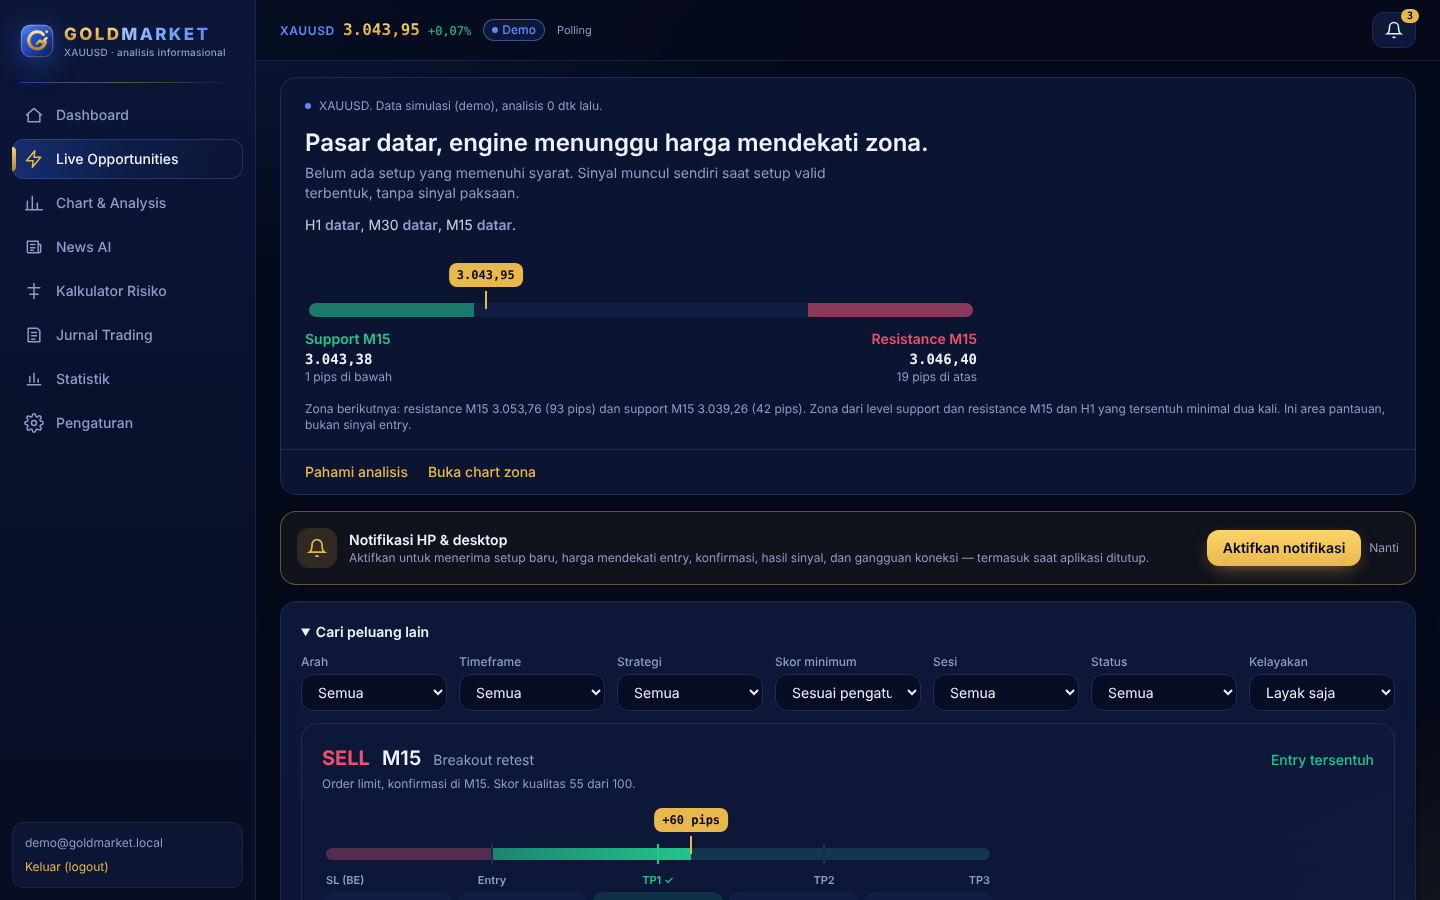
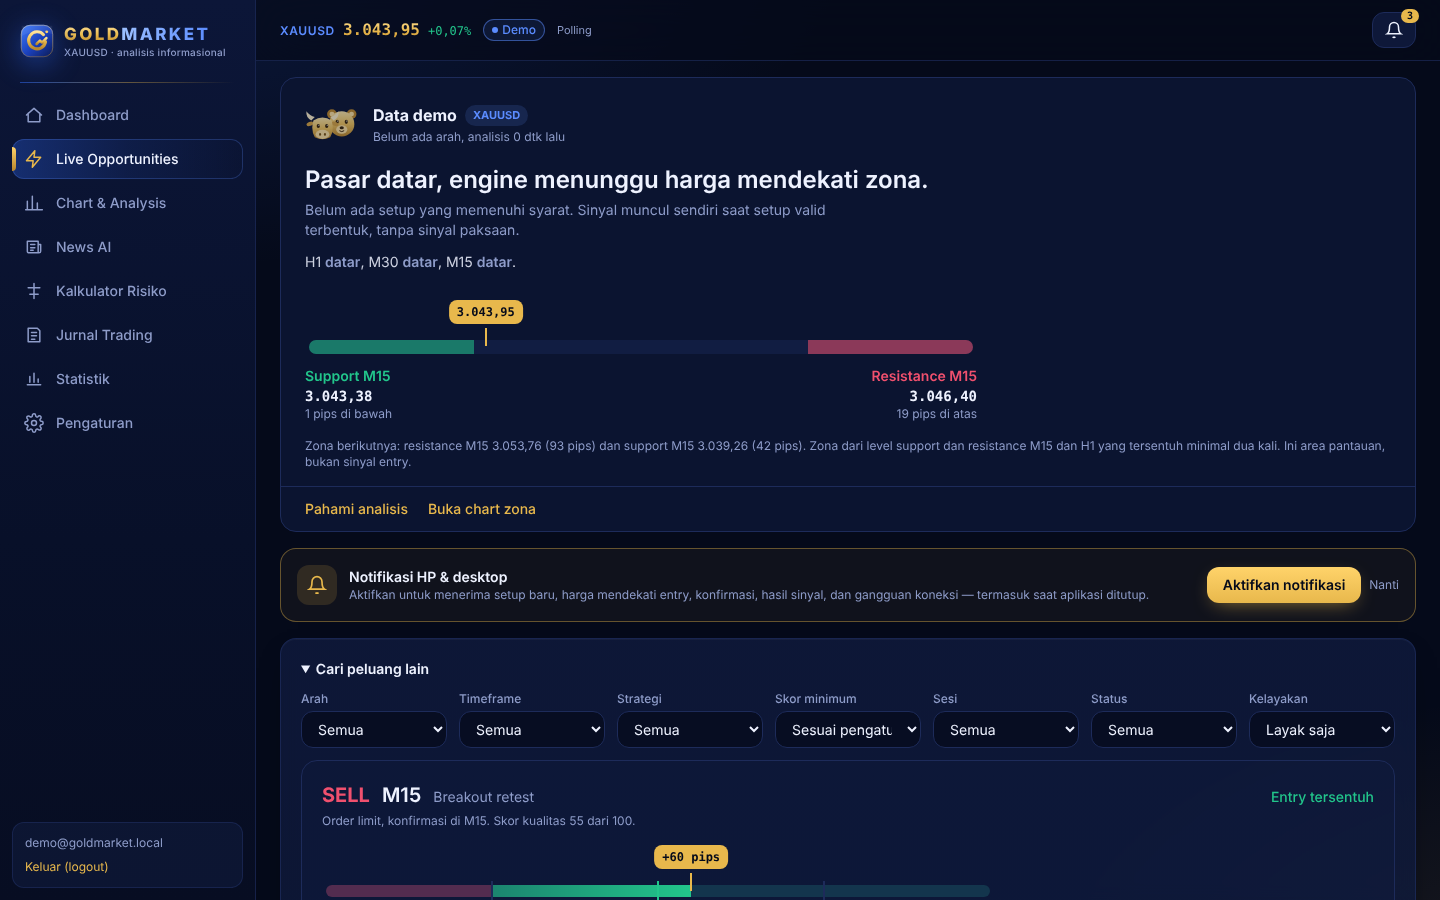
Add a bull/bear mascot as the live status mark on Opportunities
The mascot follows the engine's bias (bull for BUY, bear for SELL, both
when neutral), nods and blinks only while the feed is live, stays still
and dimmed for demo/delayed/stale data, and sleeps during quiet hours or
when the market is closed. Drops the unused wifi/radar keyframes.

Claude-Session: https://claude.ai/code/session_013QtfmBmTs5QPLgXJSgfiZY

Changed region(s): [[0.1875, 0.0933, 1.0, 1.0]]

diff --git a/src/components/Mascot.tsx b/src/components/Mascot.tsx
@@ -1,0 +1,101 @@
+"use client";
+
+import { useId } from "react";
+import { cx } from "./ui";
+
+export type MascotKind = "bull" | "bear" | "both";
+/** live = bergerak (data live); still = diam & redup (demo/delayed/terganggu); sleep = tidur (jam istirahat / pasar tutup) */
+export type MascotMood = "live" | "still" | "sleep";
+
+function Eyes({ y, lx, rx, sleep }: { y: number; lx: number; rx: number; sleep: boolean }) {
+  if (sleep)
+    return (
+      <g fill="none" stroke="#3b2606" strokeWidth="1.6" strokeLinecap="round">
+        <path d={`M${lx - 2.4} ${y} Q${lx} ${y + 2} ${lx + 2.4} ${y}`} />
+        <path d={`M${rx - 2.4} ${y} Q${rx} ${y + 2} ${rx + 2.4} ${y}`} />
+      </g>
+    );
+  return (
+    <>
+      <ellipse className="m-eye" cx={lx} cy={y} rx="2.3" ry="3" fill="#3b2606" />
+      <ellipse className="m-eye" cx={rx} cy={y} rx="2.3" ry="3" fill="#3b2606" />
+      <circle cx={lx + 0.8} cy={y - 1} r=".8" fill="#fff" />
+      <circle cx={rx + 0.8} cy={y - 1} r=".8" fill="#fff" />
+    </>
+  );
+}
+
+function Bull({ gold, sleep }: { gold: string; sleep: boolean }) {
+  return (
+    <g className="m-nod">
+      <path d="M14 22 Q6 18 7 9 Q12 16 19 17 Z" fill="#fff1c9" />
+      <path d="M46 22 Q54 18 53 9 Q48 16 41 17 Z" fill="#fff1c9" />
+      <ellipse cx="12" cy="27" rx="5" ry="3" fill="#d9a441" transform="rotate(-20 12 27)" />
+      <ellipse cx="48" cy="27" rx="5" ry="3" fill="#d9a441" transform="rotate(20 48 27)" />
+      <path d="M17 22 Q30 14 43 22 Q47 36 41 46 Q30 52 19 46 Q13 36 17 22 Z" fill={`url(#${gold})`} />
+      <ellipse cx="30" cy="42" rx="10" ry="6.5" fill="#ffe3a0" />
+      <ellipse cx="26.5" cy="42" rx="1.5" ry="2" fill="#7a5410" />
+      <ellipse cx="33.5" cy="42" rx="1.5" ry="2" fill="#7a5410" />
+      <Eyes y={30} lx={24} rx={36} sleep={sleep} />
+    </g>
+  );
+}
+
+function Bear({ gold, sleep }: { gold: string; sleep: boolean }) {
+  return (
+    <g className="m-nod">
+      <circle cx="16" cy="18" r="7" fill="#c08a2a" />
+      <circle cx="44" cy="18" r="7" fill="#c08a2a" />
+      <circle cx="16" cy="18" r="3.5" fill="#ffe3a0" />
+      <circle cx="44" cy="18" r="3.5" fill="#ffe3a0" />
+      <circle cx="30" cy="32" r="18" fill={`url(#${gold})`} />
+      <ellipse cx="30" cy="40" rx="8" ry="6" fill="#ffe3a0" />
+      <ellipse cx="30" cy="37.5" rx="3" ry="2.2" fill="#3b2606" />
+      <path d="M27 42 Q30 44.5 33 42" fill="none" stroke="#3b2606" strokeWidth="1.4" strokeLinecap="round" />
+      <Eyes y={29} lx={23.5} rx={36.5} sleep={sleep} />
+    </g>
+  );
+}
+
+/**
+ * Maskot status di halaman Peluang: banteng saat engine mencari BUY, beruang saat mencari SELL, keduanya saat netral.
+ * Bergerak hanya saat data live; diam & redup bila data demo/tertunda/terganggu; tidur saat jam istirahat atau pasar tutup.
+ */
+export function Mascot({ kind, mood, size = 56, className }: { kind: MascotKind; mood: MascotMood; size?: number; className?: string }) {
+  const gold = `m-gold-${useId().replace(/:/g, "")}`;
+  const sleep = mood === "sleep";
+  return (
+    <svg viewBox="0 0 64 60" width={size} height={size * (60 / 64)} className={cx("shrink-0 overflow-visible", mood === "live" ? "mascot-live" : "opacity-70", className)} aria-hidden>
+      <defs>
+        <linearGradient id={gold} x1="0" y1="0" x2="0" y2="1">
+          <stop offset="0" stopColor="#ffe9a8" />
+          <stop offset=".5" stopColor="#f2c55a" />
+          <stop offset="1" stopColor="#c08a2a" />
+        </linearGradient>
+      </defs>
+      {kind === "both" ? (
+        <>
+          <g transform="translate(18 4) scale(.8)">
+            <Bear gold={gold} sleep={sleep} />
+          </g>
+          <g transform="translate(-4 8) scale(.8)">
+            <Bull gold={gold} sleep={sleep} />
+          </g>
+        </>
+      ) : kind === "bull" ? (
+        <Bull gold={gold} sleep={sleep} />
+      ) : (
+        <Bear gold={gold} sleep={sleep} />
+      )}
+      {sleep ? (
+        <text x="50" y="14" fontFamily="Inter, sans-serif" fontWeight="800" fontSize="10" fill="#8e9cc9">
+          z<tspan dx="1" dy="-5" fontSize="7">z</tspan>
+        </text>
+      ) : kind === "bull" ? (
+        <path className="m-bob" d="M53 50 L57 44 L61 50" fill="none" stroke="#22c58b" strokeWidth="2.4" strokeLinecap="round" strokeLinejoin="round" />
+      ) : kind === "bear" ? (
+        <path className="m-bob" d="M53 44 L57 50 L61 44" fill="none" stroke="#f0506e" strokeWidth="2.4" strokeLinecap="round" strokeLinejoin="round" />
+      ) : null}
+    </svg>
+  );
+}

diff --git a/src/app/opportunities/page.tsx b/src/app/opportunities/page.tsx
@@ -11,6 +11,7 @@ import { HistoryPanel, SignalHistoryItem, relTime } from "@/components/SignalHis
 import { PushToggle } from "@/components/PushToggle";
 import { Disclaimer, Empty, ago, cx, fmt, useNow } from "@/components/ui";
 import { ZoneBar } from "@/components/LevelBar";
+import { Mascot, type MascotKind, type MascotMood } from "@/components/Mascot";
 import { useAuth } from "@/lib/auth";
 import { effectiveStatus, isActiveSignal, isRunningSignal, useSignalHistory, type AnalysisRow } from "@/lib/market";
 import { OPPORTUNITY_STATUS_LABEL } from "@/core/setups";
@@ -34,13 +35,13 @@ const TREND: Record<string, { word: string; cls: string }> = {
   ranging: { word: "datar", cls: "text-muted" },
 };
 
-const FEED_LINE: Record<FeedStatus, { text: string; dot: string }> = {
-  live: { text: "Data live", dot: "bg-buy" },
-  delayed: { text: "Data tertunda (delayed)", dot: "bg-warn" },
-  demo: { text: "Data simulasi (demo)", dot: "bg-info" },
-  market_closed: { text: "Pasar tutup", dot: "bg-muted" },
-  reconnecting: { text: "Menyambung ulang ke feed", dot: "bg-warn" },
-  disconnected: { text: "Feed terputus", dot: "bg-sell" },
+const FEED_LINE: Record<FeedStatus, { label: string; pill: string }> = {
+  live: { label: "Live", pill: "bg-buy/15 text-buy" },
+  delayed: { label: "Data tertunda", pill: "bg-warn/15 text-warn" },
+  demo: { label: "Data demo", pill: "bg-info/15 text-info" },
+  market_closed: { label: "Pasar tutup", pill: "bg-surface-2 text-muted" },
+  reconnecting: { label: "Menyambung ulang", pill: "bg-warn/15 text-warn" },
+  disconnected: { label: "Feed terputus", pill: "bg-sell/15 text-sell" },
 };
 
 interface Zone {
@@ -143,7 +144,11 @@ function LiveSignal() {
   const showSignals = list.length > 0 && f.status === "active";
   const watch = zones(analysis, price, pipSize);
   const quietLine = analysis?.reasons?.[0]?.startsWith(QUIET_PREFIX) ? analysis.reasons[0] : null;
-  const feedLine = fresh ? FEED_LINE[feed] : { text: "Engine belum mengirim analisis baru", dot: "bg-sell" };
+  const feedLine = quietLine && feed !== "market_closed" ? { label: "Jam istirahat", pill: "bg-surface-2 text-muted" } : fresh ? FEED_LINE[feed] : { label: "Engine tidak merespons", pill: "bg-sell/15 text-sell" };
+  // banteng = mencari BUY, beruang = mencari SELL, keduanya = belum ada arah / sinyal dua arah
+  const dirs = new Set(showSignals ? list.map((x) => x.direction) : watch.dir ? [watch.dir] : []);
+  const mascot: MascotKind = dirs.size === 1 ? (dirs.has("BUY") ? "bull" : "bear") : "both";
+  const mood: MascotMood = quietLine || feed === "market_closed" ? "sleep" : fresh && feed === "live" ? "live" : "still";
   const one = list[0];
   const [title, sub] =
     feed === "market_closed"
@@ -185,13 +190,19 @@ function LiveSignal() {
     <div className="space-y-4">
       <section className="overflow-hidden rounded-2xl border border-line bg-surface fade-in">
         <div className="px-4 pt-5 sm:px-6">
-          <p className="flex items-center gap-2 text-xs text-muted">
-            <span className={cx("h-1.5 w-1.5 shrink-0 rounded-full", feedLine.dot)} aria-hidden />
-            <span>
-              XAUUSD. {feedLine.text}
-              {analysis ? `, analisis ${ago(analysis.created_at, now)}` : ""}.
-            </span>
-          </p>
+          <div className="flex items-center gap-3">
+            <Mascot kind={mascot} mood={mood} />
+            <div className="min-w-0">
+              <p className="flex flex-wrap items-center gap-2 text-base font-bold text-ink">
+                {feedLine.label}
+                <span className={cx("rounded-full px-2 py-0.5 text-[11px] font-bold", feedLine.pill)}>XAUUSD</span>
+              </p>
+              <p className="mt-0.5 text-xs text-muted">
+                {mascot === "bull" ? "Bias BUY" : mascot === "bear" ? "Bias SELL" : showSignals ? "Sinyal BUY dan SELL" : "Belum ada arah"}
+                {analysis ? `, analisis ${ago(analysis.created_at, now)}` : ""}
+              </p>
+            </div>
+          </div>
           <h1 className="mt-3 text-xl font-semibold leading-snug text-ink sm:text-2xl">{title}</h1>
           <p className="mt-1 max-w-prose text-sm text-muted">{sub}</p>
           {analysis && (

diff --git a/src/app/globals.css b/src/app/globals.css
@@ -84,14 +84,11 @@ body {
 .fade-in { animation: fade-in .25s ease-out; }
 @media (prefers-reduced-motion: reduce) { .pulse-dot, .fade-in { animation: none; } }
 
-/* Ikon sinyal live: gelombang menyala bergantian, radar berdenyut */
-@keyframes wave-on { 0%, 100% { opacity: .25 } 40%, 60% { opacity: 1 } }
-.wave { animation: wave-on 1.8s ease-in-out infinite; }
-.wave-1 { animation-delay: 0s; }
-.wave-2 { animation-delay: .25s; }
-.wave-3 { animation-delay: .5s; }
-@keyframes ping-ring { 0% { transform: scale(.6); opacity: .55 } 100% { transform: scale(1.6); opacity: 0 } }
-.ping-ring { animation: ping-ring 2.2s cubic-bezier(0, 0, .2, 1) infinite; transform-origin: center; }
-@keyframes spin-slow { to { transform: rotate(360deg) } }
-.spin-slow { animation: spin-slow 6s linear infinite; transform-origin: center; }
-@media (prefers-reduced-motion: reduce) { .wave, .ping-ring, .spin-slow { animation: none; } }
+/* Maskot banteng/beruang Peluang: hanya bergerak saat data live (.mascot-live) */
+@keyframes m-nod { 0%, 100% { transform: rotate(-5deg) translateY(0) } 50% { transform: rotate(5deg) translateY(-2px) } }
+@keyframes m-blink { 0%, 44%, 52%, 100% { transform: scaleY(1) } 48% { transform: scaleY(.1) } }
+@keyframes m-bob { 0%, 100% { transform: translateY(0) } 50% { transform: translateY(-2px) } }
+.mascot-live .m-nod { transform-origin: 30px 40px; animation: m-nod 1.2s ease-in-out infinite; }
+.mascot-live .m-eye { transform-box: fill-box; transform-origin: center; animation: m-blink 2.4s ease-in-out infinite; }
+.mascot-live .m-bob { animation: m-bob 1.2s ease-in-out infinite; }
+@media (prefers-reduced-motion: reduce) { .mascot-live .m-nod, .mascot-live .m-eye, .mascot-live .m-bob { animation: none; } }
